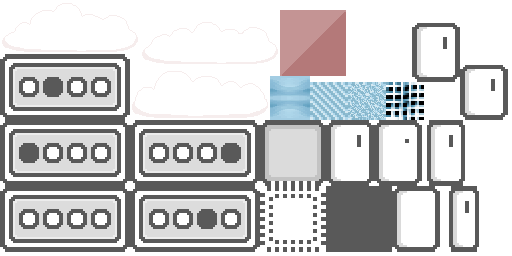
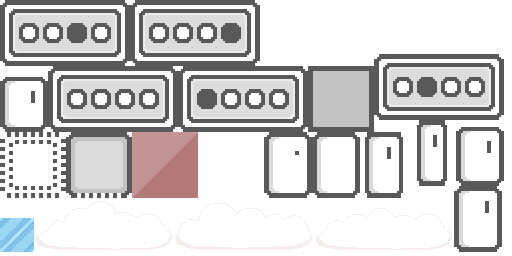
Made background able to have multiple layers. Collectables now spin. Changing up graphics.

diff --git a/core/src/background/ParallaxBackground.java b/core/src/background/ParallaxBackground.java
@@ -9,48 +9,60 @@ import com.badlogic.gdx.graphics.g2d.TextureRegion;
 import com.badlogic.gdx.math.MathUtils;
 import com.badlogic.gdx.math.Matrix4;
 import com.badlogic.gdx.math.Vector2;
+import com.badlogic.gdx.utils.Array;
 
 public class ParallaxBackground implements IRender {
 
 	protected final Vector2 _pos = new Vector2();
 	protected final Vector2 _cachedCameraPos = new Vector2();
 	protected final Matrix4 _cachedCameraMatrix = new Matrix4();
+
+	protected Array<ParallaxLayer> _layers = new Array<ParallaxLayer>();
 	
-	protected float _parallaxRatio;
-	protected TextureRegion _texture;
+	public ParallaxBackground() {
+		
+	}
 	
-	public ParallaxBackground(String textureKey, float parallaxRatio) {
-		_texture = Globals.getTextureManager().getImageTexture(textureKey);
-		_parallaxRatio = parallaxRatio;
+	public ParallaxBackground(ParallaxLayer ... layers) {
+		for(ParallaxLayer layer : layers) {
+			_layers.add(layer);
+		}
 	}
 
 	@Override
 	public void render(SpriteBatch spriteBatch) {
-		_adjustCamera(spriteBatch);
-		
-		_setStartPosition();
-		
-		float width = _texture.getRegionWidth();
-		float height = _texture.getRegionHeight();
-		float cameraRight = Globals.getCamera().getRight();
-		float cameraBottom = Globals.getCamera().getBottom();
-		
-		int numXRepeats = MathUtils.ceil(Math.abs(_pos.x - cameraRight) / width);
-		int numYRepeats = MathUtils.ceil(Math.abs(_pos.y - cameraBottom) / height);		
-		for(float x = _pos.x; x < _pos.x + (numXRepeats * width); x += width) {
-			for(float y = _pos.y; y < _pos.y + (numYRepeats * height); y += height) {
-				spriteBatch.draw(_texture, x, y);
+		for(ParallaxLayer layer : _layers) {
+			_adjustCamera(spriteBatch, layer.getParallaxRatio());
+			
+			TextureRegion texture = layer.getTexture();
+			_setStartPosition(texture);
+			
+			float width = texture.getRegionWidth();
+			float height = texture.getRegionHeight();
+			float cameraRight = Globals.getCamera().getRight();
+			float cameraBottom = Globals.getCamera().getBottom();
+			
+			int numXRepeats = MathUtils.ceil(Math.abs(_pos.x - cameraRight) / width);
+			int numYRepeats = MathUtils.ceil(Math.abs(_pos.y - cameraBottom) / height);		
+			for(float x = _pos.x; x < _pos.x + (numXRepeats * width); x += width) {
+				for(float y = _pos.y; y < _pos.y + (numYRepeats * height); y += height) {
+					spriteBatch.draw(texture, x, y);
+				}
 			}
+			
+			_resetCamera(spriteBatch);
 		}
-		
-		_resetCamera(spriteBatch);
 	}
 	
-	protected void _adjustCamera(SpriteBatch spriteBatch) {
+	public void addLayer(ParallaxLayer layer) {
+		_layers.add(layer);
+	}
+	
+	protected void _adjustCamera(SpriteBatch spriteBatch, float parallaxRatio) {
 		OrthographicCamera camera = Globals.getCamera().getRawCamera();
 		_cachedCameraMatrix.set(camera.combined);
 		_cachedCameraPos.set(camera.position.x, camera.position.y);		
-		camera.position.set(_cachedCameraPos.x * _parallaxRatio, _cachedCameraPos.y * _parallaxRatio, camera.position.z);
+		camera.position.set(_cachedCameraPos.x * parallaxRatio, _cachedCameraPos.y * parallaxRatio, camera.position.z);
 		camera.update();	
 		
 		spriteBatch.setProjectionMatrix(camera.combined);
@@ -65,9 +77,9 @@ public class ParallaxBackground implements IRender {
 		spriteBatch.setProjectionMatrix(camera.combined);
 	}
 	
-	protected void _setStartPosition() {
-		float width = _texture.getRegionWidth();
-		float height = _texture.getRegionHeight();
+	protected void _setStartPosition(TextureRegion texture) {
+		float width = texture.getRegionWidth();
+		float height = texture.getRegionHeight();
 		float cameraLeft = Globals.getCamera().getLeft();
 		float cameraTop = Globals.getCamera().getTop();
 

diff --git a/core/src/core/GameRoom.java b/core/src/core/GameRoom.java
@@ -11,6 +11,7 @@ import misc.IRender;
 import misc.IUpdate;
 import script.Script;
 import background.ParallaxBackground;
+import background.ParallaxLayer;
 
 import com.badlogic.gdx.graphics.g2d.SpriteBatch;
 import com.badlogic.gdx.maps.MapObject;
@@ -41,7 +42,15 @@ public class GameRoom implements IRender, IUpdate {
 		_numRows = Integer.parseInt(properties.get("height").toString());
 		_numCols = Integer.parseInt(properties.get("width").toString());
 		_tileMapName = tileMapName;
-		_background = new ParallaxBackground(properties.get("background").toString(), .8f);
+		
+		_background = new ParallaxBackground();
+		
+		float parallaxRatio = 0.4f;
+		String[] textureKeys = properties.get("background").toString().split(",");
+		for(String textureKey : textureKeys) {
+			parallaxRatio += 0.1f;
+			_background.addLayer(new ParallaxLayer(textureKey, parallaxRatio));
+		}
 	}
 
 	@Override

diff --git a/core/src/background/ParallaxLayer.java b/core/src/background/ParallaxLayer.java
@@ -1,0 +1,24 @@
+package background;
+
+import misc.Globals;
+
+import com.badlogic.gdx.graphics.g2d.TextureRegion;
+
+public class ParallaxLayer {
+
+	protected float _parallaxRatio;
+	protected TextureRegion _texture;
+	
+	public ParallaxLayer(String textureKey, float parallaxRatio) {
+		_texture = Globals.getTextureManager().getImageTexture(textureKey);
+		_parallaxRatio = parallaxRatio;
+	}
+
+	public float getParallaxRatio() {
+		return _parallaxRatio;
+	}
+	
+	public TextureRegion getTexture() {
+		return _texture;
+	}
+}

diff --git a/core/src/entity/CollectableEntity.java b/core/src/entity/CollectableEntity.java
@@ -12,12 +12,15 @@ import core.HUD;
 
 public class CollectableEntity extends Entity {
 
-	private final String _narrationText;
+	private static final float ANGULAR_VELOCITY = 2;
 	
+	private final String _narrationText;
+
 	public CollectableEntity(EntityBodyDef bodyDef, TextureMapObject object, MapObject bodySkeleton) {
 		super(bodyDef, object, bodySkeleton);
 		
 		_narrationText = Utils.getPropertyString(object, "narration_text");
+		_body.setAngularVelocity(ANGULAR_VELOCITY);
 	}
 	
 	@Override

diff --git a/core/src/screen/GameScreen.java b/core/src/screen/GameScreen.java
@@ -209,7 +209,7 @@ public final class GameScreen implements Screen {
 	}
 	
 	private void clearScreen() {
-		Gdx.gl.glClearColor((240 / 255.0f) * 0.8f, (250 / 255.0f) * 0.8f, (255 / 255.0f) * 0.8f, 1);
+		Gdx.gl.glClearColor((255 / 255.0f), (255 / 255.0f), (255 / 255.0f), 1);
 		Gdx.gl.glClear(GL20.GL_COLOR_BUFFER_BIT);
 	}
 }
